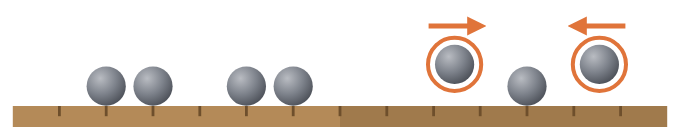
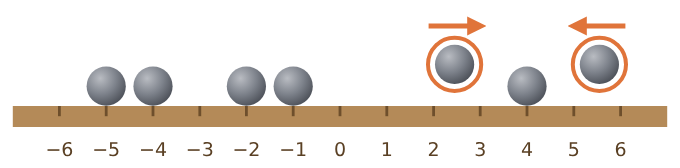
README: fixes from a cold-read critique (move rule, termination, Landau in terms of d with necessity proof, converse and non-example, n=3 case, labelled figures, board-to-plank projection)
Claude-Session: https://claude.ai/code/session_01CfsQ49uCtgKaj5vJgDQJDz

diff --git a/README.md b/README.md
@@ -1,20 +1,18 @@
 # Binary x-rays of permutations
 
-Research notes, data and code for an open conjecture about permutations: **Bebeacua–Mansour–Postnikov–Severini Conjecture 5**, which is the same as **Nordh Conjecture 10**.
+**The question:** given n distinct diagonals of an n×n board, when can you place n non-attacking rooks so that each of those diagonals holds exactly one rook? A 2005 conjecture gives a simple answer. This repository holds research notes, data and code for proving or disproving it. The conjecture is **Bebeacua–Mansour–Postnikov–Severini Conjecture 5**, which is the same as **Nordh Conjecture 10**.
 
-**[Open the progress dashboard →](https://claude.ai/artifact/PnNNnhXRqfmtgrEThzoG9Z)** It shows what is proved, what holds in tests, what has been ruled out, and how it all fits together.
+**[Progress dashboard](https://claude.ai/artifact/PnNNnhXRqfmtgrEThzoG9Z):** what is proved, what holds in tests, what has been ruled out, and how it fits together. It is a claude.ai page; if it doesn't open for you, clone the repository and open `map/index.html` in a browser.
 
 ## The puzzle, in pictures
-
-There's an interactive version of this walkthrough in the [equivalent views lab](https://claude.ai/artifact/QLBTrw2VAiCUpzDjjQsegN).
 
 Take a plank with 2n − 1 marks, labelled −(n−1), …, n−1. The pictures use n = 7, so the marks run from −6 to 6.
 
 **Figure 1.** Place n stones on every other mark: −6, −4, …, 4, 6. This is the *starting arrangement*.
 
-<p align="center"><img src="docs/intro/1-start.png" width="480" alt="Seven stones on every other mark of a plank"></p>
+<p align="center"><img src="docs/intro/1-start.png" width="480" alt="Seven stones on the marks -6, -4, -2, 0, 2, 4, 6 of a plank"></p>
 
-**Figure 2.** A *move* takes any two stones and slides each one mark toward the other. The stones need not be neighbours. A move is legal when the two marks the stones land on are empty and different from each other. Here the stones at −6 and 0 move to −5 and −1.
+**Figure 2.** A *move* takes two stones at marks a < b, where b − a ≥ 3 and the marks a + 1 and b − 1 are both empty, and moves them to a + 1 and b − 1. In words: each stone slides one mark toward the other. The two stones need not be neighbours. One stone moves right by one and the other left by one, so the sum of the stones' positions never changes; it stays 0. Here the stones at −6 and 0 move to −5 and −1.
 
 <p align="center"><img src="docs/intro/2-move.png" width="480" alt="The stones at -6 and 0 each slide one mark toward the other"></p>
 
@@ -22,37 +20,74 @@ Take a plank with 2n − 1 marks, labelled −(n−1), …, n−1. The pictures 
 
 <p align="center"><img src="docs/intro/3-second-move.png" width="480" alt="The stones at 2 and 6 each slide one mark toward the other"></p>
 
-**Figure 4.** Every move brings two stones closer together, so you can't keep moving forever. Eventually you reach an arrangement where no move is legal. Whatever moves you choose, it's always the same final arrangement. For n odd, the stones fill the n middle marks, as in Figure 4. For n even, they fill the n + 1 middle marks except the centre mark 0.
+**Figure 4.** A move from a, b to a + 1, b − 1 lowers the sum of the squared positions by 2(b − a − 1) > 0, so no sequence of moves goes on forever. Eventually you reach an arrangement where no move is legal. Whatever moves you choose, it is always the same final arrangement:
+- **n odd:** the stones fill the n middle marks, as shown here.
+- **n even:** the stones fill the n + 1 middle marks except the centre mark 0.
 
-<p align="center"><img src="docs/intro/4-final.png" width="480" alt="All seven stones on the seven middle marks"></p>
+<p align="center"><img src="docs/intro/4-final.png" width="480" alt="All seven stones on the marks -3 to 3"></p>
 
-**Figure 5.** An arrangement is *reachable* if some sequence of legal moves takes the starting arrangement to it. This one is reachable: it is the result of the moves in Figures 2 and 3, followed by the stones at −4 and 3 moving to −3 and 2.
+**Figure 5.** An arrangement is *reachable* if some sequence of legal moves takes the starting arrangement to it. This one is reachable: it is the result of the moves in Figures 2 and 3, followed by the stones at −4 and 3 moving to −3 and 2. Not every arrangement whose positions sum to 0 is reachable; there is an example below.
 
-<p align="center"><img src="docs/intro/5-reachable.png" width="480" alt="A reachable arrangement"></p>
+<p align="center"><img src="docs/intro/5-reachable.png" width="480" alt="A reachable arrangement: stones on -5, -3, -2, -1, 2, 4, 5"></p>
 
-**Figure 6.** So far a stone's position has been a single number. Now give the plank a second dimension. The stones actually sit on an n×n board, and each mark on the plank stands for one diagonal of that board: the cells with a fixed value of column − row. The dashed lines in Figure 6 run along the diagonals that hold a stone. Seen edge-on from the front, each diagonal shrinks to a single point, which is a tick on the plank, so the 13 marks are the 13 diagonals of a 7×7 board. The plank picture records only *which diagonals* hold a stone. Within its diagonal, a stone may sit in any cell, and from the side every such placement looks the same.
+**Figure 6.** Now read the plank as the side view of a board. Take an n×n board turned 45°, so that one corner points up. Number its rows 1, …, n down the upper-left edge and its columns 1, …, n down the upper-right edge. The cell in row i, column j lies on the *diagonal* j − i. In this picture the cells of one diagonal form a vertical line, from −(n−1) on the far left to n−1 on the far right.
 
-<p align="center"><img src="docs/intro/6-board.png" width="640" alt="The same stones on a 7 by 7 board turned 45 degrees, tilted and seen from above, with dashed lines along their diagonals"></p>
+Seen edge-on from the front, each of these vertical lines collapses to a single point. The 2n − 1 diagonals become exactly the 2n − 1 marks of the plank. Figure 6a shows the board tilted. Figure 6b shows it from above, with the plank of Figure 5 underneath: the dashed lines run down the diagonals that hold a stone, onto those stones' marks.
 
-**Figure 7.** Everything up to now was a construction: a way to produce sets of diagonals. This is the actual puzzle. Take a reachable arrangement, then slide each stone along its own diagonal so that every row and every column of the board contains exactly one stone; in other words, the stones form a permutation matrix. In Figure 7, each stone sends one line along its row and one along its column to the board's two upper edges, and every row and every column is hit exactly once. Finding such a placement is the hard part. Moving one stone to free up a row usually takes its new row or column from another stone, and no general method is known.
+So a plank arrangement records only *which diagonals* hold a stone. Within its diagonal, a stone may sit in any cell, and from the side every such placement looks the same. In Figure 6 the stones are placed arbitrarily, and several of them share a row or a column.
+
+<p align="center"><img src="docs/intro/6a-board-tilted.png" width="480" alt="Figure 6a: the board tilted, stones on their diagonals, dashed lines along those diagonals"></p>
+
+<p align="center"><img src="docs/intro/6b-board-from-above.png" width="420" alt="Figure 6b: the board from above, with the plank of Figure 5 underneath and dashed lines from each diagonal down to its mark"></p>
+
+**Figure 7.** Everything up to now was a construction: a way to produce sets of diagonals. This is the actual puzzle. Take a reachable arrangement, then slide each stone along its own diagonal so that every row and every column of the board contains exactly one stone. In other words, the stones form a permutation matrix.
+
+In Figure 7, each stone sends one line along its row to the upper-left edge and one along its column to the upper-right edge, and every row and every column is hit exactly once. Reading the rows in order, rows 1, …, 7 hold stones in columns 5, 7, 1, 6, 4, 3, 2. That is the permutation π = 5716432. Its diagonals π(i) − i are 4, 5, −2, 2, −1, −3, −5, the marks of Figure 5.
+
+Finding such a placement is the hard part. Moving one stone to free up a row usually takes its new row or column from another stone, and no general method is known.
 
 <p align="center"><img src="docs/intro/7-solution.png" width="420" alt="Each stone slid along its diagonal so that every row and every column holds exactly one stone"></p>
 
-**The conjecture:** for every n, every reachable arrangement of n stones on the plank can be placed on the n×n board, each stone on its own diagonal, with every row and every column containing exactly one stone.
+**The conjecture:** for every n, every reachable arrangement of n stones on the plank can be placed on the n×n board, each stone in some cell of the diagonal given by its mark, with every row and every column containing exactly one stone.
+
+The converse is known: an arrangement that is not reachable can never be placed. So the conjecture says that an arrangement can be placed *exactly when* it is reachable.
+
+For example, take n = 4 and the arrangement {−3, −2, 2, 3}. Its positions sum to 0, but it is not reachable, and it cannot be placed. Diagonal −3 is the single cell in row 4, column 1. The two cells of diagonal −2 are (row 3, column 1) and (row 4, column 2), and each shares a column or a row with it.
+
+**A small case.** For n = 3 the reachable arrangements are {−2, 0, 2} (the start) and {−1, 0, 1} (the final arrangement). Here are placements for both, drawn as ordinary matrices with row 1 on top. The board pictures above are these matrices turned 45°.
+
+```
+{−2, 0, 2}       {−1, 0, 1}
+ . . ●            ● . .
+ . ● .            . . ●
+ ● . .            . ● .
+```
+
+An interactive version of this walkthrough is in the [equivalent views lab](https://claude.ai/artifact/QLBTrw2VAiCUpzDjjQsegN) (a claude.ai page).
 
 ## The conjecture, formally
 
-Number the cells of the n×n board by (row i, column j) and call d = j − i the cell's **diagonal**, so −(n−1) ≤ d ≤ n−1. A permutation π uses the diagonals π(i) − i, one per row. Given a set D of n distinct diagonals, a **witness** for D is a permutation that uses every diagonal in D exactly once. Equivalently, D is the *binary diagonal x-ray* of π: every diagonal holds one point of π or none.
+Number the cells of the n×n board by (row i, column j), and call d = j − i the cell's **diagonal**, so −(n−1) ≤ d ≤ n−1. A permutation π puts one point in each row i, at column π(i). Its **diagonal x-ray** is the vector counting π's points on each of the 2n − 1 diagonals. The x-ray is **binary** when every count is 0 or 1. Then the diagonals used form a set D of exactly n diagonals, and π is a **witness** for D. The plank picture is this x-ray: it is the board seen edge-on, which is where the name comes from.
 
-Write D = {d₁ < d₂ < … < dₙ} and s_k = d_k + n − k. **Landau's condition** says s is the score sequence of a tournament:
+Write D = {d₁ < d₂ < … < dₙ}. **Landau's condition** on D is:
 
-  s₁ + … + s_k ≥ k(k−1)/2 for every k, with equality at k = n.
+  d₁ + … + d_k ≥ −k(n − k) for every k, with equality at k = n (that is, Σ d = 0).
+
+It is necessary. Any k points of a permutation lie in k distinct rows and k distinct columns, so their diagonals sum to at least (1 + … + k) − ((n−k+1) + … + n) = −k(n − k). Apply this to the points on the k lowest diagonals. The name: with s_k = d_k + n − k, the condition says exactly that s is the score sequence of a tournament on n players, by Landau's theorem (1953).
 
 > **Conjecture** (Bebeacua–Mansour–Postnikov–Severini 2005, Conj. 5; Nordh 2008, Conj. 10). D has a witness **if and only if** D satisfies Landau's condition.
 
-How this matches the pictures: the stones sit at the marks d ∈ D. Balance is the equality at k = n, since it says Σ d = 0. The starting position, a stone on every other mark, is D = {−(n−1), −(n−3), …, n−1}. The arrangements reachable from it by moves are exactly the ones satisfying Landau's condition (proved; card `mm` in the graph). Each move lowers Σ d², so moves terminate. When no move is legal, the stones form one block of consecutive marks, or two blocks with a single empty mark between them, and Σ d = 0 then forces the final arrangement of Figure 4.
+**How this matches the pictures.**
+- The stones sit at the marks d ∈ D, and a move keeps Σ d = 0.
+- The starting arrangement is D = {−(n−1), −(n−3), …, n−1}.
+- The arrangements reachable from it are exactly the ones satisfying Landau's condition (proved; see the dashboard).
+- Why the final arrangement is unique: when no move is legal, the stones form one block of consecutive marks, or two blocks with a single empty mark between them. Σ d = 0 then leaves only the arrangement described in Figure 4.
 
-**Status.** The "only if" direction is known. The "if" direction is open; it has been checked by exhaustive search for every n ≤ 22. If D has a *tight cut* (equality for some k < n), it splits into two smaller instances, so only the D with no tight cut matter. Nordh's formulation is about extremal Skolem sets: put rows at positions 1…n and columns at n+1…2n, and a witness becomes a pairing of {1, …, 2n} whose pair lengths are n + D.
+**Status.** The "only if" direction is the necessity argument above. The "if" direction is open; it has been checked by exhaustive search for every n ≤ 22.
+
+**Tight cuts.** Suppose equality holds at some k < n. Then the bound in the necessity argument is attained, so the k points on the k lowest diagonals fill rows n−k+1, …, n and columns 1, …, k: the k×k block in the lower-left corner. The other n − k diagonals then form an independent instance of size n − k in the upper-right block. So only the D with no tight cut matter.
+
+**Skolem form.** Nordh's formulation is about extremal Skolem sets. Put rows at positions 1, …, n and columns at n+1, …, 2n, and a witness becomes a pairing of {1, …, 2n} whose pair lengths are n + D. These lengths sum to n², the largest total any pairing of {1, …, 2n} can have, and a pairing reaches it only when every pair joins one of 1, …, n to one of n+1, …, 2n. So such pairings correspond exactly to witnesses.
 
 ## What's here
 
@@ -70,7 +105,16 @@ How this matches the pictures: the stones sit at the marks d ∈ D. Balance is t
 | `docs/delegation-queue.md` | agents | Side tasks for outside agents, and how to report. |
 | `agents/` | agents | Code and outputs from every experiment, one folder per investigation (see `agents/SETUP.md` for the shared definitions). |
 
-## The principles in one screen
+## Opening the dashboard
+
+- **On this machine:** open `map/index.html` in a browser. Nothing needs to be served.
+- **As one file:** `python3 map/bundle.py` writes `map/dashboard-single.html` with the data, the labs and the graph inside. Send it as an attachment and open it in a browser.
+- **As a link:** a snapshot of the dashboard is published at https://claude.ai/artifact/PnNNnhXRqfmtgrEThzoG9Z. It is rebuilt by hand, so it can lag behind `main`.
+- **On GitHub Pages:** the repository is ready for Pages; it is not switched on. The steps, and what becomes public, are in `docs/claims-map-guide.md` §7. The address would be https://andrew-spears.github.io/binary-xray-permutations/.
+
+## For contributors and agents
+
+### The principles in one screen
 
 The full version is in `docs/claims-map-guide.md`.
 
@@ -86,16 +130,9 @@ The full version is in `docs/claims-map-guide.md`.
 5. **Cards are for humans.** Exposition first: define the notion, give an example picture specific to this claim, then say the claim in plain words. Numbers go in `evidence`, proofs in `proof`. A card describes only its own claim.
 6. **Explicit case splits.** Use named sets joined by ∧ (e.g. symmetric vs non-symmetric; odd vs even n). Never use "settles part of" edges.
 
-## Working conventions
+### Working conventions
 
-- **Standing reductions:** only D with no tight cut matter (tight cuts split), and D ~ −D (mirror).
+- **Standing reductions:** only D with no tight cut matter (tight cuts split), and D and −D are equivalent (transpose the board).
 - **Recording experiments:** every experiment gets a folder in `agents/` and a line in `docs/state.md`. The line gives the exact question, the range, whether the check was exhaustive, the smallest counterexample, and the script name.
-- **Reporting:** return HIT or NOTHING (see `docs/delegation-queue.md`). A rule that is right 90% of the time is not a hit.
+- **Reporting:** return HIT (a precise claim with its range and a recheck command) or NOTHING (see `docs/delegation-queue.md`). A rule that is right 90% of the time is not a hit.
 - **Updating the graph:** add or change nodes in `map/build.py`, put each new card's id in one route in `map/dashboard_data.py`, run `python3 map/build.py`, check that the pictures are valid witnesses, and keep the statement, status and evidence consistent with `docs/state.md`.
-
-## Opening the dashboard
-
-- **On this machine:** open `map/index.html` in a browser. Nothing needs to be served.
-- **As one file:** `python3 map/bundle.py` writes `map/dashboard-single.html` with the data, the labs and the graph inside. Send it as an attachment and open it in a browser.
-- **As a link:** a snapshot of the dashboard is published at https://claude.ai/artifact/PnNNnhXRqfmtgrEThzoG9Z. It is rebuilt by hand, so it can lag behind `main`.
-- **On GitHub Pages:** the repository is ready for Pages; it is not switched on. The steps, and what becomes public, are in `docs/claims-map-guide.md` §7. The address would be https://andrew-spears.github.io/binary-xray-permutations/.
